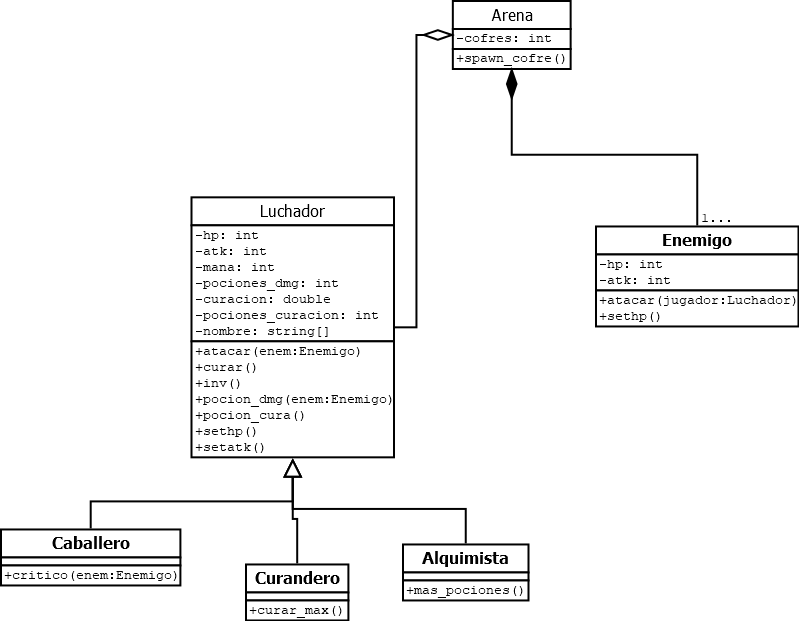
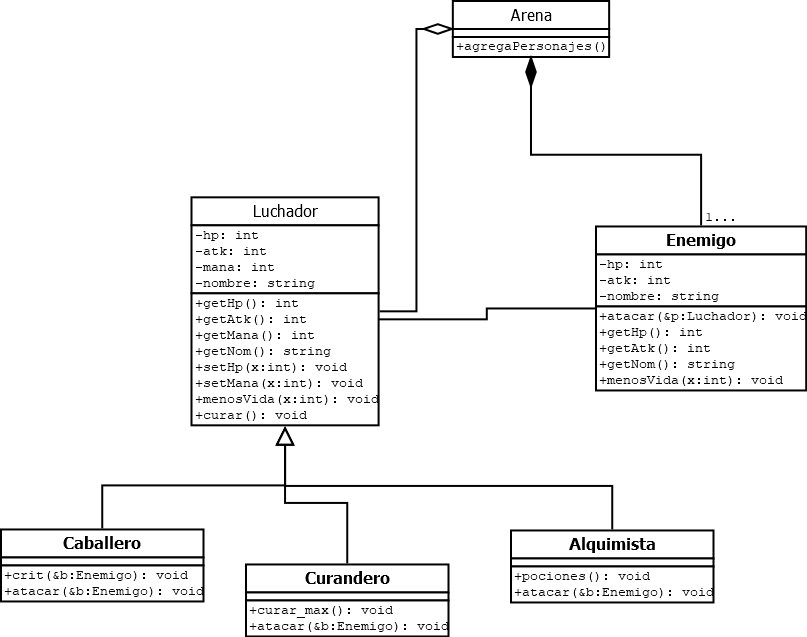
Add files via upload
En este commit se actualizan todos los archivos y se agregan nuevos. Esto para acreditar las competencias de "Implemento las clases en c++ siguiendo el diseño del diagrama de clases en UML.", "Codifico métodos y atributos de clase correctamente. (constructores, getters, setters)" (presentes en la clase madre de "personaje" y "enemigo"), "Sigo estándares en todo mi código fuente: estilo, sangrías, comentarios, nombres, etc...", "Cumplo con estándares en mi repositorio: tiene un readme claro que explica el proyecto  (para que sirve,  para que no sirve y como se usa), no tiene archivos basura o versiones pasadas.", "Guardo correctamente los avances en commits durante la materia."

Changed region(s): [[0.0, 0.0, 1.0, 1.0]]

diff --git a/luchador.h b/luchador.h
@@ -1,8 +1,13 @@
-#ifndef luchador.h
-#define luchador.h
-#ifndef enemigo.h
-#define enemigo.h
+/*
+ * Proyecto Juego
+ * A01705550
+ * 2/12/2022
+ */
+#ifndef LUCHADOR_H
+#define LUCHADOR_H
+
 #include<iostream>
+
 using namespace std;
 
 class Luchador{
@@ -10,16 +15,17 @@ class Luchador{
 	private:
 		int hp;
 		int atk;
+		int mana;
 		string nombre;
 
-
 	public:
-		Luchador(int vida, int ataque, string nom){
-			hp = vida;
-			atk = ataque;
+		Luchador(int vid, int atak, int man, string nom){
+			hp = vid;
+			atk = atak;
+			mana = man;
 			nombre = nom;
 		}
-
+//getters
 		int getHp(){
 			return hp;
 		}
@@ -28,55 +34,34 @@ class Luchador{
 			return atk;
 		}
 
-		string getNombre(){
+		int getMana(){
+			return mana;
+		}
+
+		string getNom(){
 			return nombre;
 		}
+//setters
+        void setHp(int x){
+			hp = x;
+		}
 
-		void menosHp(int dmg){
-            hp = hp - dmg;
+		void setMana(int x){
+			mana = x;
+		}
+
+		void menosVida(int x){
+			hp = hp - x;
+
+		}
+//accion para subir su hp
+		void curar(){
+		    if(getMana() >= 10){
+                setHp(getHp() + 10);
+                setMana(getMana() - 10);
+		    }
         }
 
-        void setHp(int num){
-            hp = num;
-        }
-
-		void atk(int dmg, Enemigo &b){
-			 b.menosHp(dmg);
-		}
-
 };
 
-class Caballero: public Luchador{
-    public:
-		Caballero(string nom): Luchador(100, 10, nom){
-		}
-
-		void crit(Enemigo &b){
-			b.menosHp(20);
-		}
-};
-
-class Curandero: public Luchador{
-    public:
-		Curandero(string nom): Luchador(100, 10, nom){
-		}
-
-		void curarMax(){
-			Curandero.setHp(100);
-		}
-};
-
-class Alquimista: public Luchador{
-    public:
-		Alquimista(string nom): Luchador(100, 10, nom){
-		}
-
-		void masPociones(){
-			cout << "worales tienes mas pociones";
-		}
-};
-
-
-
-#endif
 #endif

diff --git a/mainjuego.cpp b/mainjuego.cpp
@@ -1,0 +1,46 @@
+/*
+ * Proyecto Juego
+ * A01705550
+ * 2/12/2022
+ */
+#include<iostream>
+
+using namespace std;
+
+#include "alquimista.h"
+#include "caballero.h"
+#include "curandero.h"
+#include "enemigo.h"
+
+int main(){
+
+	Alquimista pepepo("Pepe pociones");
+	Caballero parzival("Parzival");
+	Curandero zenyatta("Zenyatta");
+	Enemigo enemi(100, 10, "enemigo");
+
+	parzival.atacar(enemi);
+	enemi.atacar(parzival);
+	pepepo.atacar(enemi);
+	enemi.atacar(pepepo);
+	enemi.atacar(pepepo);
+	enemi.atacar(pepepo);
+	enemi.atacar(zenyatta);
+	enemi.atacar(zenyatta);
+	enemi.atacar(zenyatta);
+	zenyatta.curarMax();
+	parzival.crit(enemi);
+	pepepo.pociones();
+	pepepo.curar();
+
+	cout << parzival.getNom() << endl;
+	cout << parzival.getHp() << endl;
+	cout << pepepo.getNom() << endl;
+	cout << pepepo.getHp() << endl;
+	cout << zenyatta.getNom() << endl;
+	cout << zenyatta.getHp() << endl;
+	cout << enemi.getNom() << endl;
+	cout << enemi.getHp();
+
+
+}

diff --git a/curandero.h b/curandero.h
@@ -1,0 +1,32 @@
+/*
+ * Proyecto Juego
+ * A01705550
+ * 2/12/2022
+ */
+#ifndef CURANDERO_H
+#define CURANDERO_H
+
+#include "luchador.h"
+#include "enemigo.h"
+
+//clase alquimista, hija de luchador
+class Curandero: public Luchador{
+
+	public:
+		Curandero(string nom):Luchador(100, 10, 100, nom){}
+
+//habilidad especial: curarse a 100 de hp
+		void curarMax(){
+		    if(getMana() >= 25){
+                setHp(100);
+                setMana(getMana() - 25);
+            }
+		}
+
+//atacar a un enemigo
+		void atacar(Enemigo &b){
+			b.menosVida(getAtk());
+		}
+};
+
+#endif

diff --git a/alquimista.h b/alquimista.h
@@ -1,0 +1,30 @@
+/*
+ * Proyecto Juego
+ * A01705550
+ * 2/12/2022
+ */
+#ifndef ALQUIMISTA_H
+#define ALQUIMISTA_H
+
+#include "luchador.h"
+#include "enemigo.h"
+
+//clase alquimista, hija de luchador
+class Alquimista: public Luchador{
+
+	public:
+		Alquimista(string nom): Luchador(100, 10, 75, nom){}
+
+//habilidad especial: decir soy pepe pociones
+		void pociones(){
+			cout << "SOY PEPE POCIONES" << endl;
+		}
+
+//atacar a un enemigo
+		void atacar(Enemigo &b){
+			b.menosVida(getAtk());
+		}
+
+};
+
+#endif

diff --git a/caballero.h b/caballero.h
@@ -1,0 +1,30 @@
+/*
+ * Proyecto Juego
+ * A01705550
+ * 2/12/2022
+ */
+#ifndef CABALLERO_H
+#define CABALLERO_H
+
+#include "luchador.h"
+#include "enemigo.h"
+
+//clase caballero, hija de luchador
+class Caballero: public Luchador{
+
+	public:
+		Caballero(string nom): Luchador(100, 10, 50, nom){}
+
+//habilidad especial: doble dano
+		void crit(Enemigo &b){
+			b.menosVida(getAtk() * 2);
+		}
+
+//atacar a un enemigo
+		void atacar(Enemigo &b){
+			b.menosVida(getAtk());
+		}
+
+};
+
+#endif
